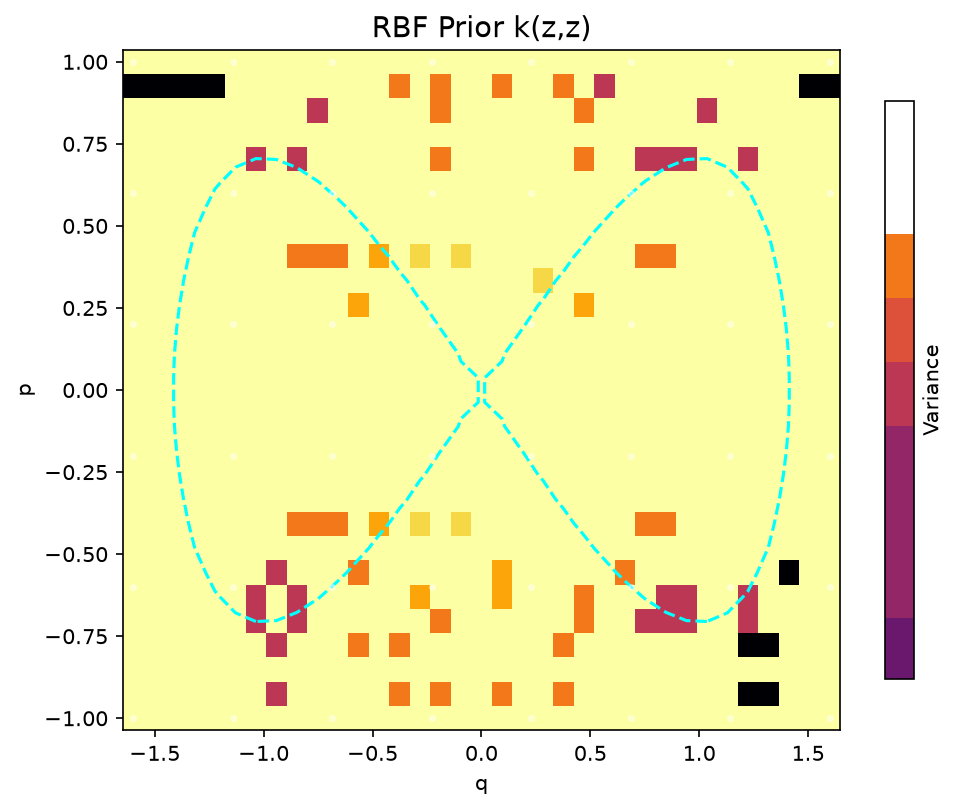
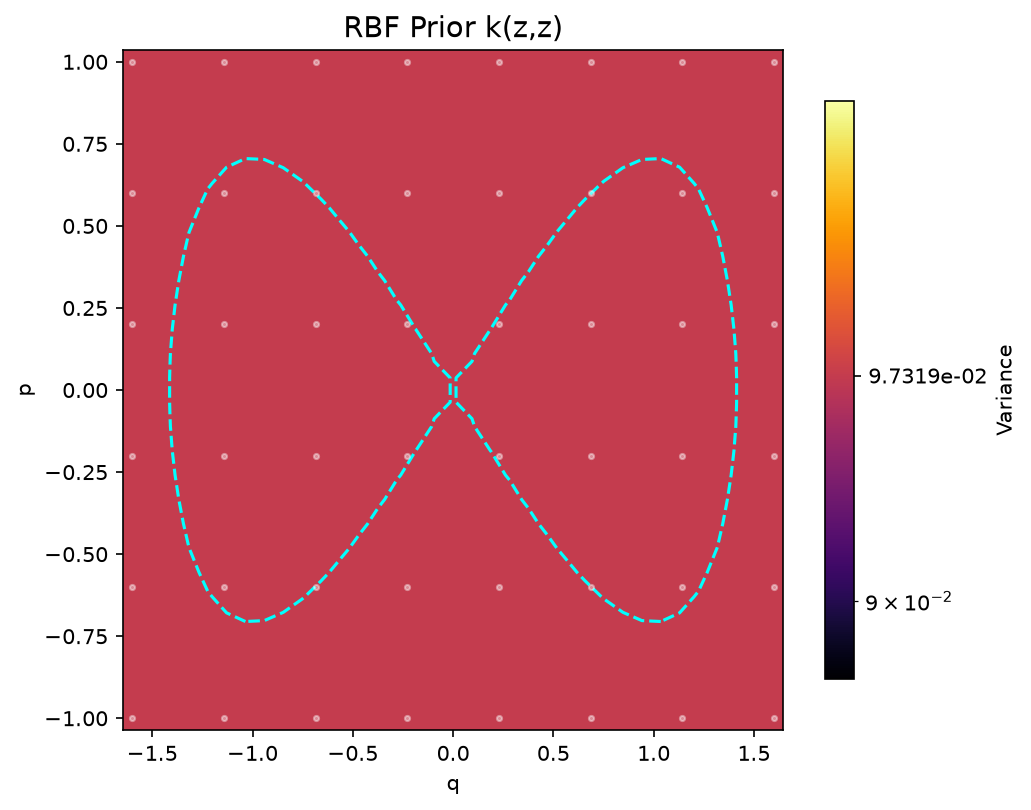
fixed broken RBF prior

diff --git a/experiment.py b/experiment.py
@@ -216,11 +216,34 @@ def main():
     stats = {}
     for fname, data, title in variance_panels:
         fig, ax = plt.subplots(figsize=(7, 5.5))
-        vmin = max(data[data > 0].min(), 1e-12)
-        vmax = data.max()
-        pcm = ax.pcolormesh(FQ, FP, data, shading='auto', cmap='inferno',
-                            norm=LogNorm(vmin=vmin, vmax=vmax))
-        fig.colorbar(pcm, ax=ax, shrink=0.85, label='Variance')
+
+        # Detect near-constant panels (e.g. RBF prior, which is exactly
+        # flat up to floating-point noise) and pad the color range so
+        # the true value is centered and visibly labeled, rather than
+        # letting LogNorm stretch machine-epsilon noise across the
+        # full color scale.
+        data_mean = data.mean()
+        relative_spread = (data.max() - data.min()) / max(abs(data_mean), 1e-300)
+
+        if relative_spread < 1e-6:
+            # Effectively constant: pad ±5% around the true value so
+            # it renders as one solid, correctly-labeled color.
+            vmin = data_mean * 0.90
+            vmax = data_mean * 1.10
+            pcm = ax.pcolormesh(FQ, FP, np.full_like(data, data_mean),
+                                shading='auto', cmap='inferno',
+                                norm=LogNorm(vmin=vmin, vmax=vmax))
+            cbar = fig.colorbar(pcm, ax=ax, shrink=0.85, label='Variance')
+            # Force a tick exactly at the true constant value
+            cbar.set_ticks([data_mean])
+            cbar.set_ticklabels([f'{data_mean:.4e}'])
+        else:
+            vmin = max(data[data > 0].min(), 1e-12)
+            vmax = data.max()
+            pcm = ax.pcolormesh(FQ, FP, data, shading='auto', cmap='inferno',
+                                norm=LogNorm(vmin=vmin, vmax=vmax))
+            fig.colorbar(pcm, ax=ax, shrink=0.85, label='Variance')
+
         ax.contour(FQ, FP, H_true, levels=[0], colors='cyan',
                    linewidths=1.5, linestyles='--')
         ax.scatter(Z_est[:, 0], Z_est[:, 1], s=6, c='white', alpha=0.4, zorder=5)
